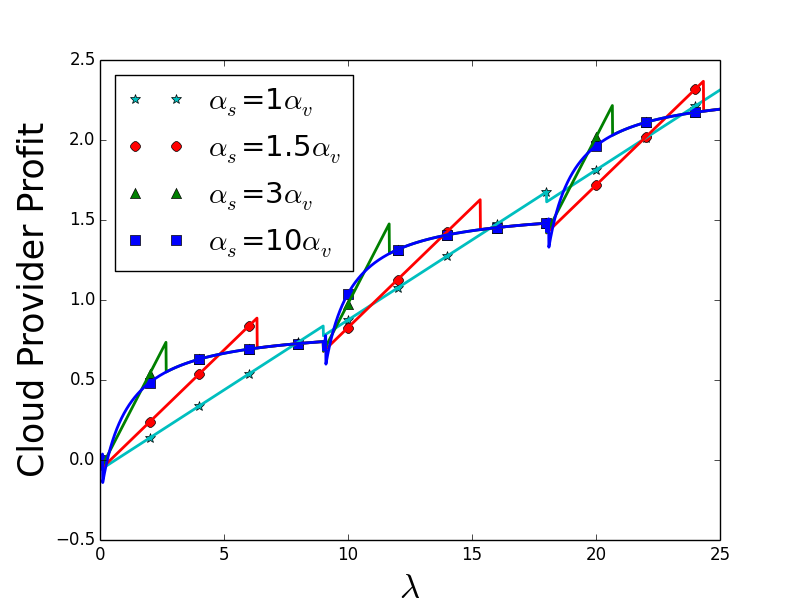
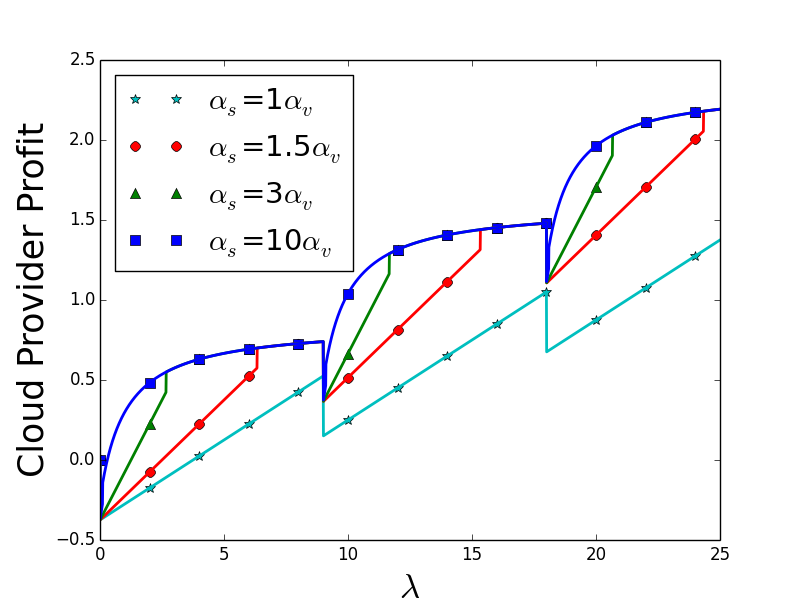
minor changes

diff --git a/scripts/generate_plots_mg1.py b/scripts/generate_plots_mg1.py
@@ -24,13 +24,16 @@ def get_config(beta, mu_s, mu_v, alpha_v, alpha_s, gamma, val_lambda):
 	cost = 0
 	num_vm = 0
 	load_serv = 0
-	if Lv <= Ls or Ls < 0: 														# Serverless Always
+	# print Ls
+	# if Ls < 0 :
+	# 	print "Negative"
+	if Lv <= Ls: 														# Serverless Always
 		cost = alpha_s*(val_lambda/mu_s)
 		load_serv = val_lambda
 	else:																		# Serverless until VM on-off
 		k = math.floor(val_lambda/Lv)
 		extra_lambda = val_lambda-(math.floor(val_lambda/Lv)*Lv)
-		if extra_lambda < Ls:	
+		if Ls > 0 and extra_lambda < Ls:	
 			# print "VM(%d On-Off) + SC" % k
 			Cv = alpha_v*((Lv*(mu_v + gamma))/((mu_v*(Lv + gamma))))*k
 			cost = Cv + (alpha_s*extra_lambda/mu_s)
@@ -50,21 +53,23 @@ def getCPCost(num_vm, num_serv, cp_alpha_v, cp_alpha_s, mu_s, mu_v, val_lambda, 
 	vm_cost = cp_alpha_v * num_vm
 	return serv_cost + vm_cost
 
-def plotSingleUserOptimalSC():
+def plotSingleUserOptimalSCvaryCPcost():
 	alpha_v = 1.0
-	price_ratios = [0.01*x for x in range(100,1000)]
-	# price_ratios = [0.1*x for x in range(10,100)]
+	price_ratios = [0.01*x for x in range(100,300)]
+	# price_ratios = [0.1*x for x in range(10,50)]
 	mu_v = 10.0
 	mu_s = 10.0
-	cp_alpha_v = 0.375
-	cp_alpha_s = 0.25
+	cp_alpha_v = 0.25
+	cp_ratios = [0.25, 0.5, 1, 1.5]
+	cp_alpha_s = 0.375
 	beta = 0.9
-	gamma = 1.0
+	gamma = 1
 	total_num_vm = 0
 	total_num_serv = 0
 	results = []
-	lambdas = [4, 6, 8]
-	for val_lambda in lambdas:
+	val_lambda = 6
+	for cp_ratio in cp_ratios:
+		cp_alpha_s = cp_alpha_v * cp_ratio
 		results_num_vm = []
 		results_num_serv = []
 		results_total_servers = []
@@ -77,16 +82,67 @@ def plotSingleUserOptimalSC():
 			# print num_vm, num_serv
 			# results_cost.append(user_cost)
 		results.append(results_cost)
-	filename = '../graphs/mg1/singleUserDelaysOptimalSC'  + '.png'
+	filename = '../graphs/mg1/singleUserDelaysOptimalSCvaryCPcost'  + '.png'
 	# filename = '../graphs/mg1/singleUserDelaysOptimalSCUser'  + '.png'
 	fig = plt.figure()
 	legends = []
-	for val_lambda in lambdas:
-		key = r'$\lambda$=' + str(val_lambda)
+	for cp_ratio in cp_ratios:
+		key = r'$\alpha_{s\_cp}$=' + str(cp_ratio) + r'$\alpha_{v\_cp}$'
 		legends.append(key)
-	plt.plot(price_ratios[::200], results[0][::200], 'c*', markersize=7)
-	plt.plot(price_ratios[::200], results[1][::200], 'ro', markersize=7)
-	plt.plot(price_ratios[::200], results[2][::200], 'g^', markersize=7)
+	plt.plot(price_ratios[::20], results[0][::20], 'c*', markersize=7)
+	plt.plot(price_ratios[::20], results[1][::20], 'ro', markersize=7)
+	plt.plot(price_ratios[::20], results[2][::20], 'g^', markersize=7)
+	plt.plot(price_ratios[::200], results[3][::200], 'bs', markersize=7)
+	plt.plot(price_ratios, results[0], 'c', linewidth='2')
+	plt.plot(price_ratios, results[1], 'r', linewidth='2')
+	plt.plot(price_ratios, results[2], 'g', linewidth='2')
+	plt.plot(price_ratios, results[3], 'b', linewidth='2')
+
+	plt.legend(legends, loc='upper right', fontsize=21)
+	plt.ylabel('Cloud Provider Profit', fontsize=25)
+	# plt.ylabel('Revenue from User', fontsize=25)
+	plt.xlabel(r'$\alpha_s$', fontsize=25)
+	plt.savefig(filename)
+
+
+def plotSingleUserOptimalSCvaryDelay():
+	alpha_v = 1.0
+	price_ratios = [0.01*x for x in range(100,300)]
+	# price_ratios = [0.1*x for x in range(10,50)]
+	mu_v = 10.0
+	mu_s = 10.0
+	cp_alpha_v = 0.25
+	cp_alpha_s = 0.375
+	beta = 0.9
+	gamma = 1
+	total_num_vm = 0
+	total_num_serv = 0
+	results = []
+	val_lambda = 6
+	gamma_ratios = [1, 0.5, 0.1]
+	for gamma in gamma_ratios:
+		results_num_vm = []
+		results_num_serv = []
+		results_total_servers = []
+		results_cost = []
+		for ratio in price_ratios:
+			alpha_s = alpha_v * ratio		
+			num_vm, num_serv, user_cost = get_config(beta, mu_s, mu_v, alpha_v, alpha_s, gamma, val_lambda)
+			cp_cost = getCPCost(num_vm, num_serv, cp_alpha_v, cp_alpha_s, mu_s, mu_v, val_lambda, beta)		
+			results_cost.append(user_cost - cp_cost)
+			print num_vm, num_serv
+			# results_cost.append(user_cost)
+		results.append(results_cost)
+	filename = '../graphs/mg1/singleUserDelaysOptimalSCvaryDelay'  + '.png'
+	# filename = '../graphs/mg1/singleUserDelaysOptimalSCUser'  + '.png'
+	fig = plt.figure()
+	legends = []
+	for gamma in gamma_ratios:
+		key = '1/' + r'$\gamma$=' + str(1.0/gamma)
+		legends.append(key)
+	plt.plot(price_ratios[::20], results[0][::20], 'c*', markersize=7)
+	plt.plot(price_ratios[::20], results[1][::20], 'ro', markersize=7)
+	plt.plot(price_ratios[::20], results[2][::20], 'g^', markersize=7)
 	# plt.plot(lambdas[::200], results[3][::200], 'bs', markersize=7)
 	plt.plot(price_ratios, results[0], 'c', linewidth='2')
 	plt.plot(price_ratios, results[1], 'r', linewidth='2')
@@ -99,13 +155,63 @@ def plotSingleUserOptimalSC():
 	plt.xlabel(r'$\alpha_s$', fontsize=25)
 	plt.savefig(filename)
 
+def plotSingleUserOptimalSC():
+	alpha_v = 1.0
+	price_ratios = [0.01*x for x in range(100,1000)]
+	# price_ratios = [0.1*x for x in range(10,50)]
+	mu_v = 10.0
+	mu_s = 10.0
+	cp_alpha_v = 0.25
+	cp_alpha_s = 0.375
+	beta = 0.9
+	gamma = 1
+	total_num_vm = 0
+	total_num_serv = 0
+	results = []
+	lambdas = [4, 6, 8]
+	# lambdas = [100]
+	for val_lambda in lambdas:
+		results_num_vm = []
+		results_num_serv = []
+		results_total_servers = []
+		results_cost = []
+		for ratio in price_ratios:
+			alpha_s = alpha_v * ratio		
+			num_vm, num_serv, user_cost = get_config(beta, mu_s, mu_v, alpha_v, alpha_s, gamma, val_lambda)
+			cp_cost = getCPCost(num_vm, num_serv, cp_alpha_v, cp_alpha_s, mu_s, mu_v, val_lambda, beta)		
+			results_cost.append(user_cost - cp_cost)
+			print num_vm, num_serv
+			# results_cost.append(user_cost)
+		results.append(results_cost)
+	filename = '../graphs/mg1/singleUserDelaysOptimalSC'  + '.png'
+	# filename = '../graphs/mg1/singleUserDelaysOptimalSCUser'  + '.png'
+	fig = plt.figure()
+	legends = []
+	for val_lambda in lambdas:
+		key = r'$\lambda$=' + str(val_lambda)
+		legends.append(key)
+	plt.plot(price_ratios[::100], results[0][::100], 'c*', markersize=7)
+	plt.plot(price_ratios[::100], results[1][::100], 'ro', markersize=7)
+	plt.plot(price_ratios[::100], results[2][::100], 'g^', markersize=7)
+	# plt.plot(lambdas[::200], results[3][::200], 'bs', markersize=7)
+	plt.plot(price_ratios, results[0], 'c', linewidth='2')
+	plt.plot(price_ratios, results[1], 'r', linewidth='2')
+	plt.plot(price_ratios, results[2], 'g', linewidth='2')
+	# plt.plot(lambdas, results[3], 'b', linewidth='2')
+
+	plt.legend(legends, loc='upper left', fontsize=21)
+	plt.ylabel('Cloud Provider Profit', fontsize=25)
+	# plt.ylabel('Revenue from User', fontsize=25)
+	plt.xlabel(r'$\alpha_s$', fontsize=25)
+	plt.savefig(filename)
+
 def plotSingleUser():
 	max_lambda = 24
 	lambdas = [.01*x for x in range(0,((max_lambda+1)*100))]
 	alpha_v = 1.0
 	price_ratios = [1,1.5,3,10]
 	cp_alpha_v = 0.25
-	cp_alpha_s = 0.0625
+	cp_alpha_s = 0.375
 	mu_v = 10.0
 	mu_s = 10.0
 	beta = 0.9
@@ -445,7 +551,7 @@ def main():
 		print "<exp_type> : multipleVMs_vary_price_ratio/multipleVMs_vary_mu/multipleVMonoff_vary_price_ratio/multipleVMonoff_vary_mu/multipleVMonoff_vary_gamma"
 		print "<exp_type> : costserv_to_vm_ON/costserv_to_vm_ON_OFF"
 		print "<exp_type> : mus_to_muv_ON_OFF"
-		print "<exp_type> : plotMultUsers/plotSingleUser/plotSingleUserOptimalSC"
+		print "<exp_type> : plotMultUsers/plotSingleUser/plotSingleUserOptimalSC/plotSingleUserOptimalSCvaryDelay"
 		return
 	exp_type = sys.argv[1]
 	if exp_type == 'vary_startup_delay':
@@ -482,13 +588,17 @@ def main():
 		plotSingleUser()
 	elif exp_type == 'plotSingleUserOptimalSC':
 		plotSingleUserOptimalSC()
+	elif exp_type == 'plotSingleUserOptimalSCvaryDelay':
+		plotSingleUserOptimalSCvaryDelay()
+	elif exp_type == 'plotSingleUserOptimalSCvaryCPcost':
+		plotSingleUserOptimalSCvaryCPcost()
 	else:
 		print "Wrong <exp_type>"
 		print "<exp_type> : vary_num_VMs/vary_startup_delay/vary_service_rate_VM/plotVMcost/plotTotalcost"
 		print "<exp_type> : multipleVMs_vary_price_ratio/multipleVMs_vary_mu/multipleVMonoff_vary_price_ratio/multipleVMonoff_vary_mu/multipleVMonoff_vary_gamma"
 		print "<exp_type> : costserv_to_vm_ON/costserv_to_vm_ON_OFF"
 		print "<exp_type> : mus_to_muv_ON_OFF"
-		print "<exp_type> : plotMultUsers/plotSingleUser/plotSingleUserOptimalSC"
+		print "<exp_type> : plotMultUsers/plotSingleUser/plotSingleUserOptimalSC/plotSingleUserOptimalSCvaryDelay"
 
 if __name__ == '__main__':
 	main()
